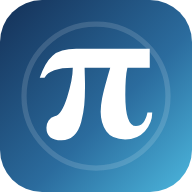
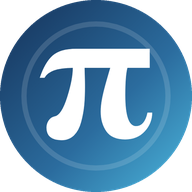
Rond icoon in tabblad, snelkoppelingen en Chrome-app
Claude-Session: https://claude.ai/code/session_01C21noEW6L4QKHgi1x2cToX

diff --git a/index.html b/index.html
@@ -14,7 +14,7 @@
 <meta property="og:image:height" content="630">
 <meta property="og:image:alt" content="π Trainer: leer de decimalen van π. Een app van Meester Roy.">
 <meta name="twitter:card" content="summary_large_image">
[3 lines of base64/hex data omitted]
 <link rel="manifest" href="manifest.webmanifest">
 <meta name="mobile-web-app-capable" content="yes">
@@ -683,7 +683,7 @@ details.uitklap[open] summary { margin-bottom: 10px; }
 <header class="kop">
   <div class="kop-binnen">
     <button class="kop-titel" data-act="go" data-to="home" aria-label="Naar het startscherm">
[2 lines of base64/hex data omitted]
       <span class="kop-tekst">
         <span class="kop-h1">π Trainer</span>
         <span class="kop-sub">Leer de decimalen van π!</span>

diff --git a/sw.js b/sw.js
@@ -1,7 +1,7 @@
 /* π Trainer: offline werken.
    De app zelf (index.html) halen we eerst van internet, zodat iedereen meteen de nieuwste versie krijgt.
    Lukt dat niet (geen of slechte wifi), dan gebruiken we de bewaarde kopie. Spraak werkt offline niet. */
-const CACHE = "pi-trainer-v1";
+const CACHE = "pi-trainer-v2";
 const BESTANDEN = ["./", "index.html", "pi-decimalenlijst.pdf", "manifest.webmanifest", "icon-192.png", "icon-512.png", "icon-512-maskable.png", "apple-touch-icon.png"];
 
 self.addEventListener("install", e => {
